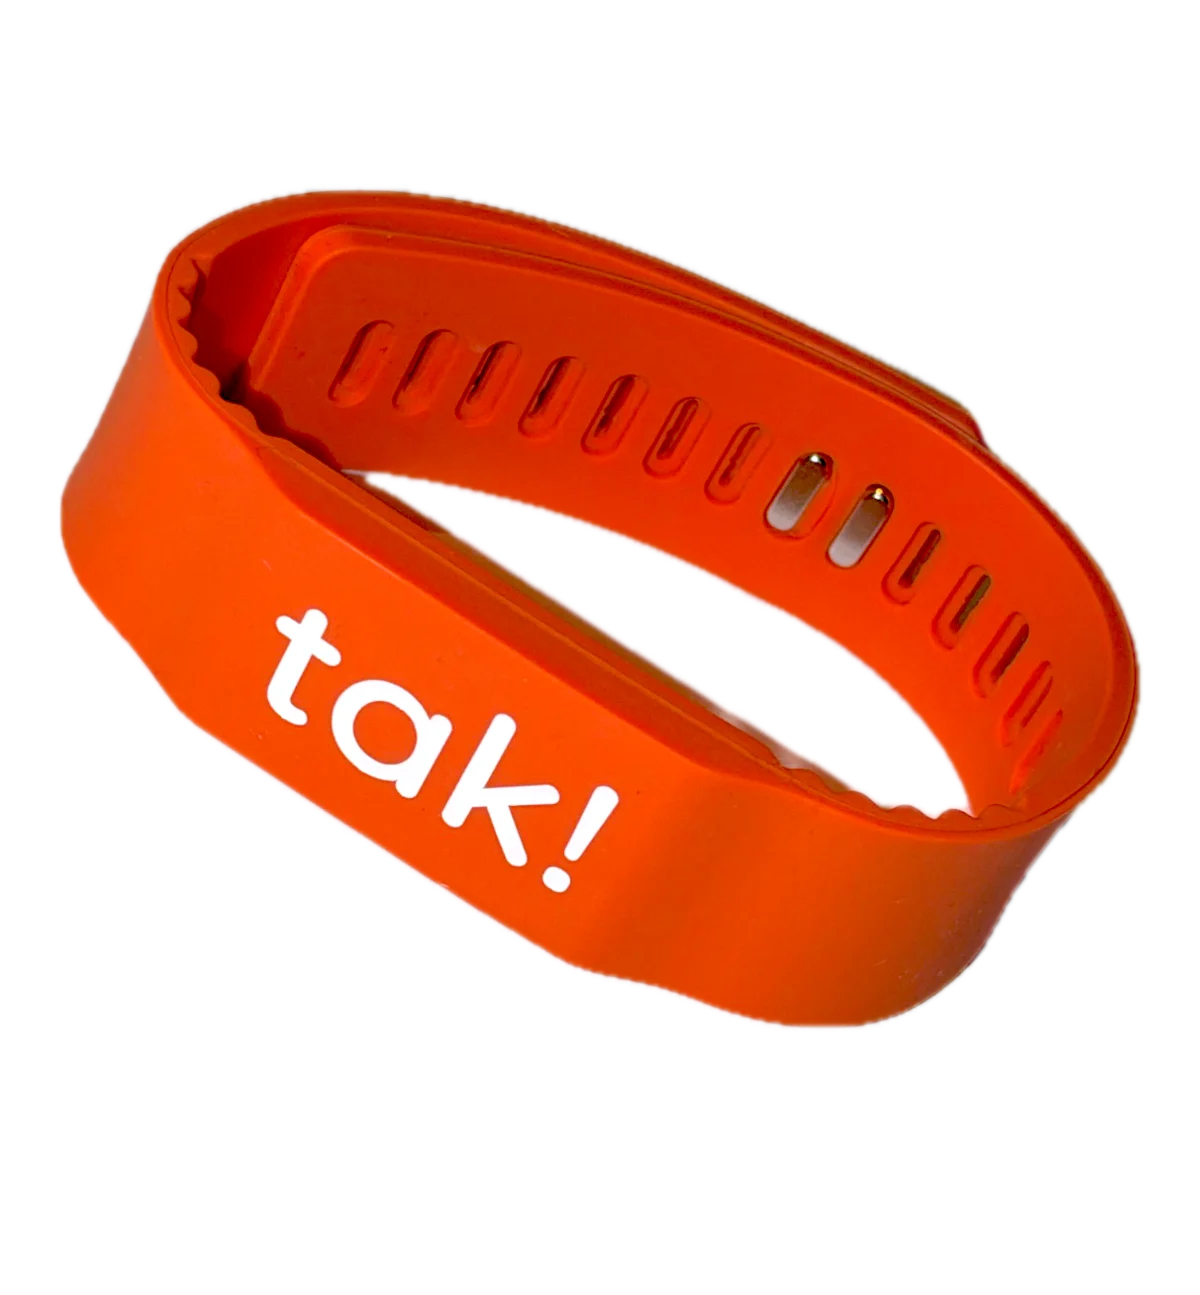
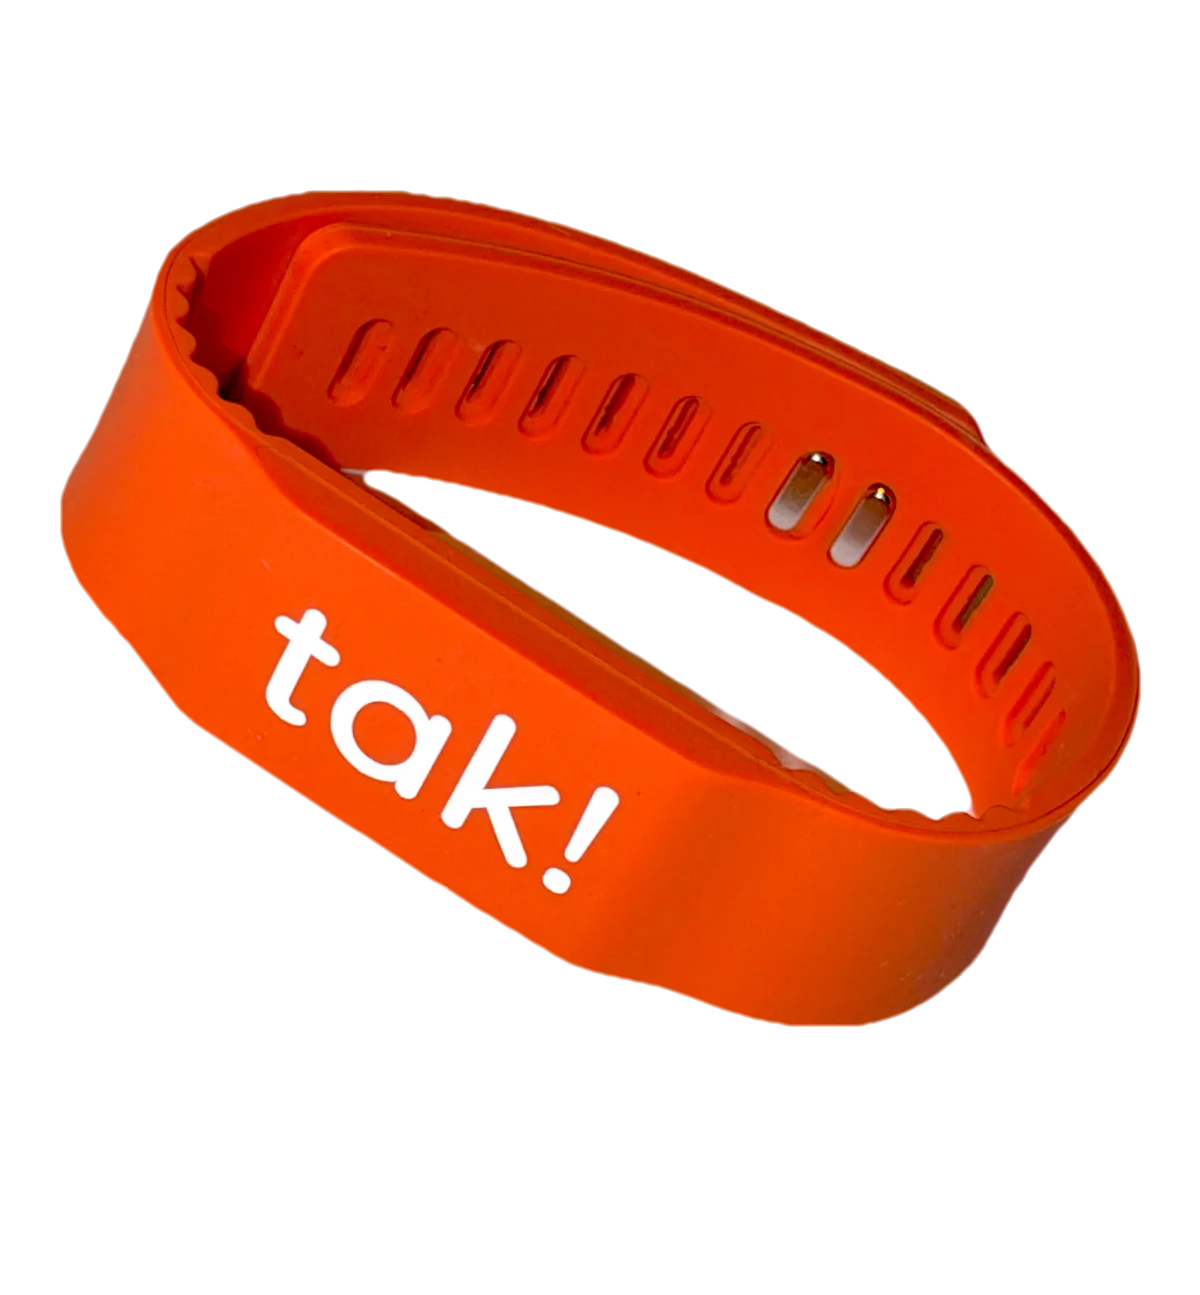
Landing: Wristband con el mismo fondo que el Dock y recorte de la pulsera con bordes suaves (tarjeta y hero)

diff --git a/index.html b/index.html
@@ -41,9 +41,9 @@
       }
     })();
   </script>
-  <link rel="stylesheet" href="styles.css?v=20261127-14" />
+  <link rel="stylesheet" href="styles.css?v=20261127-15" />
   <script src="https://cdnjs.cloudflare.com/ajax/libs/animejs/3.2.2/anime.min.js" integrity="sha512-aNMyYYxdIxIaot0Y1/PLuEu3eipGCmsEUBrUq+7aVyPGMFH8z0eTP0tkqAvv34fzN6z+201d3T8HPb1svWSKHQ==" crossorigin="anonymous" referrerpolicy="no-referrer" defer></script>
-  <script src="i18n.js?v=20261127-2" defer></script>
+  <script src="i18n.js?v=20261127-3" defer></script>
   <script src="demo.js?v=20261127-1" defer></script>
   <script src="script.js?v=20261127-5" defer></script>
 </head>
@@ -82,7 +82,7 @@
 
       <div class="hero-art">
         <div class="hero-stage">
-          <img class="hero-photo" src="public/assets/hero-wristband-tak.webp" width="1200" height="1295" alt="Wristband NFC tak! de silicona coral con el logo tak! en blanco" data-i18n-attr="alt:hero.img" />
+          <img class="hero-photo" src="public/assets/hero-wristband-tak.webp?v=2" width="1200" height="1295" alt="Wristband NFC tak! de silicona coral con el logo tak! en blanco" data-i18n-attr="alt:hero.img" />
         </div>
         <div class="float float-review" aria-hidden="true">
           <span class="avatar">C</span>
@@ -98,7 +98,7 @@
       <p class="lead" data-i18n="prod.lead">Wristbands para reconocer a cada persona de tu equipo. Docks para que tus clientes califiquen el lugar desde la mesa. Todo llega al mismo panel.</p>
       <ul class="products">
         <li class="product">
-          <div class="product-art product-art--band"><img src="public/assets/wristband-tak-studio.webp" width="1600" height="900" alt="Wristband NFC tak! de silicona coral sobre fondo blanco" data-i18n-attr="alt:prod.band.img" loading="lazy" /></div>
+          <div class="product-art product-art--band"><img src="public/assets/wristband-tak.webp" width="1400" height="1000" alt="Wristband NFC tak! de silicona coral con el logo tak! en blanco" data-i18n-attr="alt:prod.band.img" loading="lazy" /></div>
           <div class="product-body">
             <span class="product-tag" data-i18n="prod.band.tag">Para tu equipo</span>
             <h3>Wristband tak!</h3>

diff --git a/styles.css b/styles.css
@@ -168,8 +168,7 @@ h2 em{font-style:normal;color:var(--coral-dark)}
 .product-art{display:grid;place-items:center;aspect-ratio:16/9;background:radial-gradient(70% 70% at 50% 40%,#ffd9d4 0,rgb(255 217 212/0) 70%),linear-gradient(165deg,#fff1ee,#fbd0ca)}
 .product-art img{width:min(64%,320px);height:auto;filter:drop-shadow(0 24px 24px rgb(120 40 34/.25))}
 .product-art--dock img{width:100%;height:100%;object-fit:cover;filter:none}
-.product-art--band{background:#fff}
-.product-art--band img{width:100%;height:100%;object-fit:cover;filter:none}
+.product-art--band img{width:min(70%,400px)}
 .product-body{padding:30px 32px 34px}
 .product-tag{display:inline-block;padding:5px 12px;border-radius:999px;background:#fff4f3;color:var(--coral-dark);font-size:13px;font-weight:700}
 .product h3{margin-top:14px;font-size:28px}

diff --git a/i18n.js b/i18n.js
@@ -40,7 +40,7 @@
 
     'prod.title': 'Two ways to receive <em>a thank-you.</em>',
     'prod.lead': 'Wristbands to recognize every person on your team. Docks so your customers can rate the place right from the table. Everything lands in the same dashboard.',
-    'prod.band.img': 'Coral silicone tak! NFC wristband on a white background',
+    'prod.band.img': 'Coral silicone tak! NFC wristband with the white tak! logo',
     'prod.band.tag': 'For your team',
     'prod.band.text': 'A silicone NFC wristband for each team member. Customers tap it with their phone and leave a review straight to that person.',
     'prod.band.t1': 'Review in the name of who served you',
